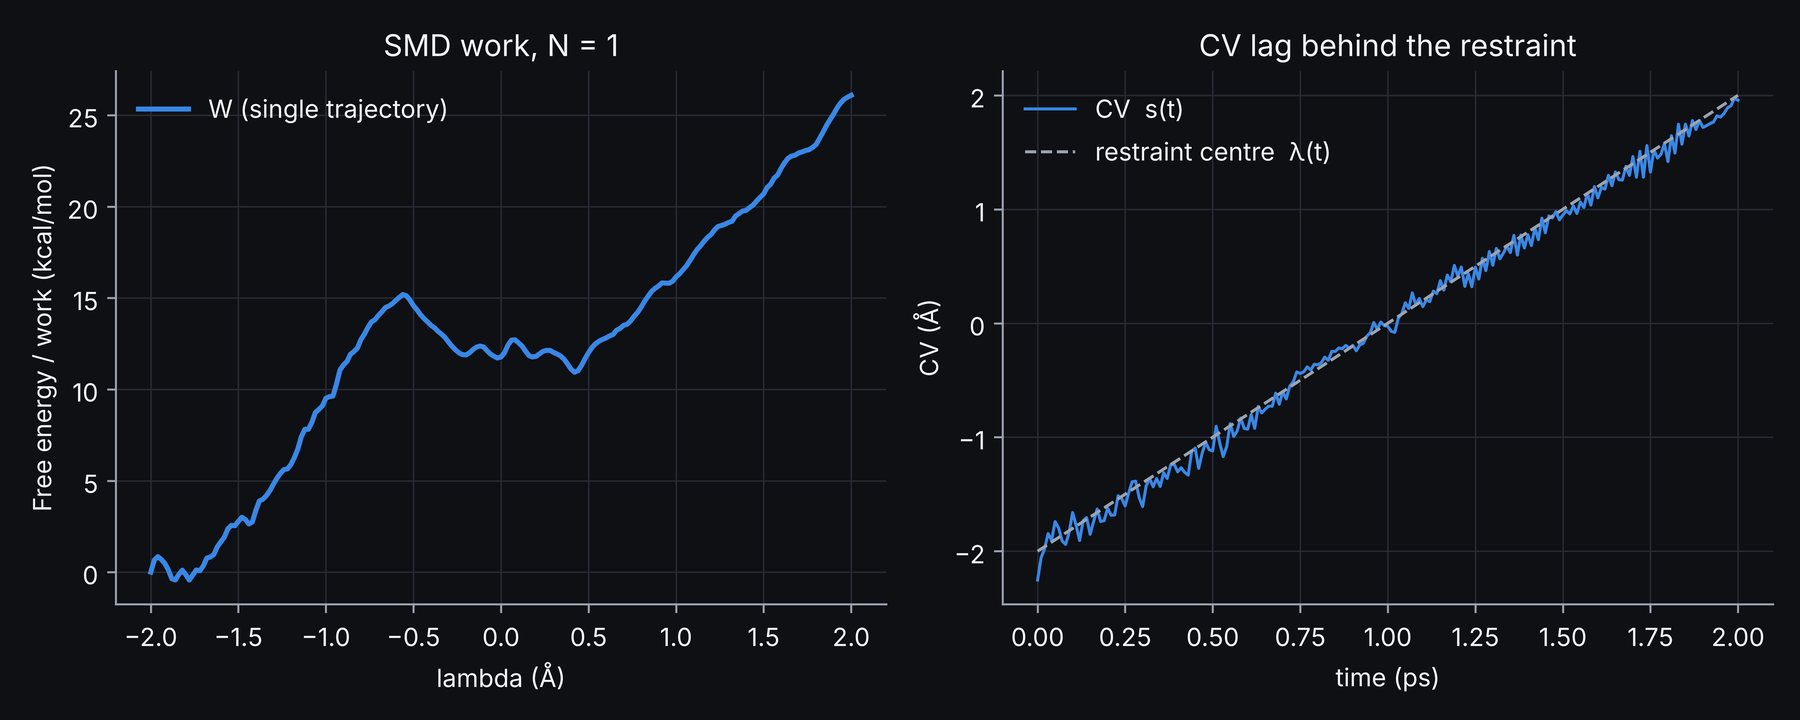
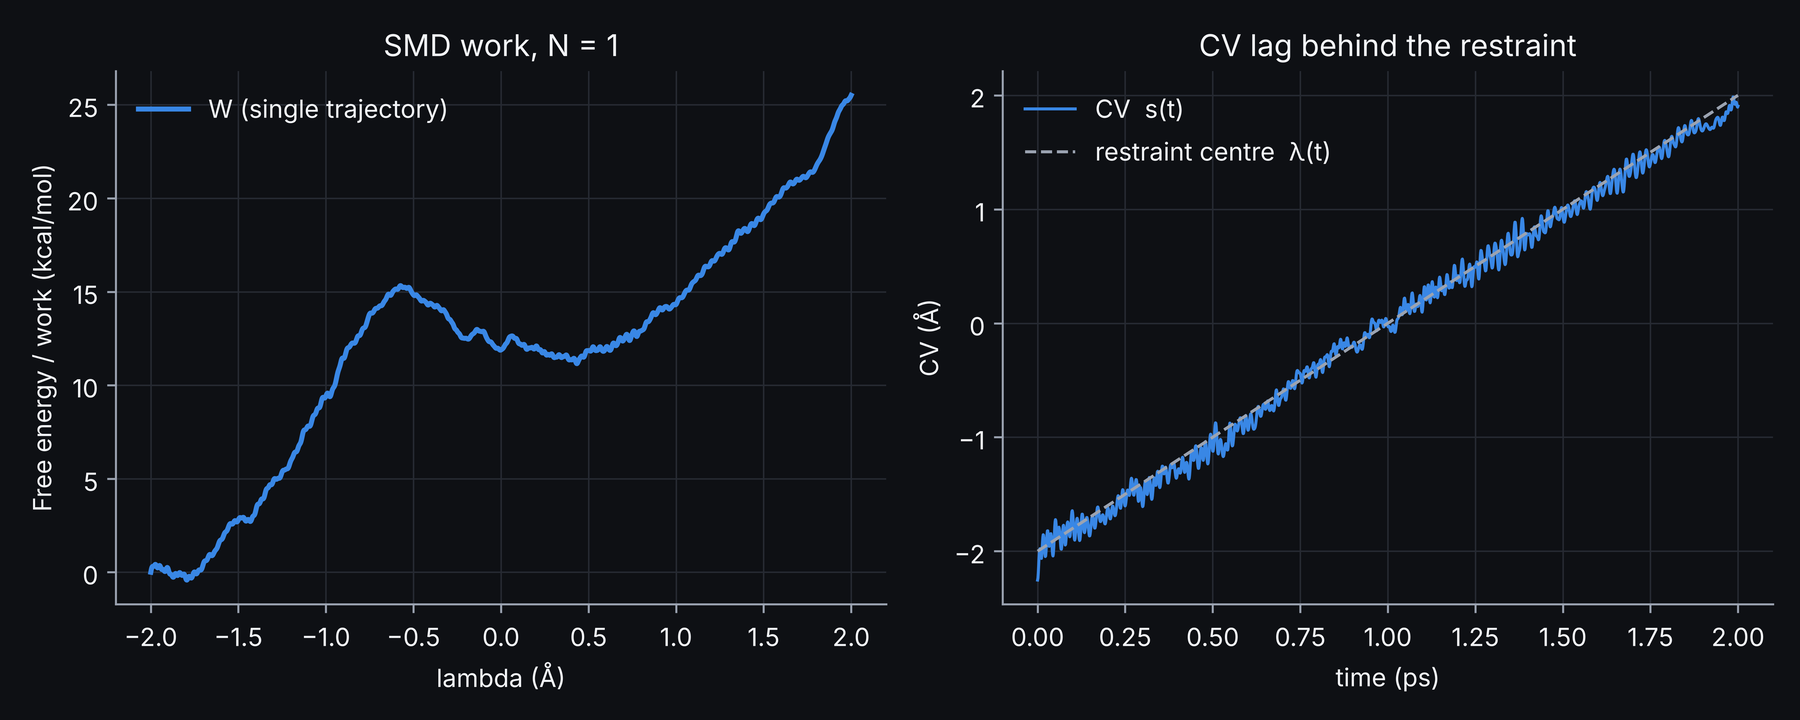
Add files via upload

diff --git a/enzyme_qmmm_prep_VIII.md b/enzyme_qmmm_prep_VIII.md
@@ -79,7 +79,7 @@ QMMM_MD_EQ-1.restart(.bin) + .wfn  ->  qmmm_md_smd.inp (moving restraint on the 
         &COLVAR
           COMMON_ITERATION_LEVELS 3
           &EACH
-            MD 10
+            MD 1
           &END EACH
         &END COLVAR
       &END PRINT
@@ -109,9 +109,9 @@ QMMM_MD_EQ-1.restart(.bin) + .wfn  ->  qmmm_md_smd.inp (moving restraint on the 
 
 - <p align="justify">&COLLECTIVE with a &RESTRAINT section turns the constraint into a harmonic restraint, U = K (CV - TARGET)<sup>2</sup> (CP2K does not use the factor 1/2), with K = 100 kcal mol<sup>-1</sup> &Aring;<sup>-2</sup>. TARGET starts at -2.0 &Aring; and grows by 0.002 &Aring; per fs (2 &Aring;/ps) until TARGET_LIMIT (+2.0 &Aring;), which takes the 2000 steps of 1 fs of the run. INTERMOLECULAR TRUE is needed because the atoms of the CV belong to different molecules (the protein and the oligosaccharide).</p>
 
-- <p align="justify">TARGET should be close to the value of the CV at the start of the run, otherwise the first part of the pull is spent bringing the CV to the restraint. Here the CV starts at -2.25 &Aring;, 0.25 &Aring; below TARGET, and reaches the target within the first 20 fs. If you change the system or the equilibration, measure the CV at the end of the NVT run (Section VII) and set TARGET and STEPS accordingly.</p>
+- <p align="justify">TARGET should be close to the value of the CV at the start of the run, otherwise the first part of the pull is spent bringing the CV to the restraint. Here the CV starts at -2.25 &Aring;, 0.25 &Aring; below TARGET, and reaches the target within the first 10 fs. If you change the system or the equilibration, measure the CV at the end of the NVT run (Section VII) and set TARGET and STEPS accordingly.</p>
 
-- <p align="justify">The &FREE_ENERGY section with DO_HILLS FALSE adds no bias: it is used only to print the CV every 10 MD steps to QMMM_MD_SMD-COLVAR.metadynLog (column 1 is the time in fs, column 2 the CV in bohr).</p>
+- <p align="justify">The &FREE_ENERGY section with DO_HILLS FALSE adds no bias: it is used only to print the CV at every MD step to QMMM_MD_SMD-COLVAR.metadynLog (column 1 is the time in fs, column 2 the CV in bohr).</p>
 
 - <p align="justify">The run continues the NVT simulation: positions, velocities (from the .bin file) and the thermostat are read from the restart files of Section VII, and the wavefunction from QMMM_MD_EQ-RESTART.wfn. RESTART_COUNTERS FALSE starts the step counter and the time at 0, which is what TARGET_GROWTH refers to.</p>
 
@@ -141,13 +141,13 @@ source cp2k_funcs
 cp2k_colvar QMMM_MD_SMD-COLVAR.metadynLog | sed -n '1,3p;$p'
 #   time[fs] CV[angstrom]
        0.000     -2.25313
-      10.000     -2.05654
-    2000.000      1.95699
+       1.000     -2.23607
+    2000.000      1.90491
 </pre>
 
 <br/>
 
-<p align="justify">After the first 50 fs the CV stays on average 0.07 &Aring; from the moving target: the restraint is in control throughout the pull. The temperature of the system stays at 299.8 &plusmn; 0.8 K.</p>
+<p align="justify">After the first 50 fs the CV stays on average 0.06 &Aring; from the moving target: the restraint is in control throughout the pull. The temperature of the system stays at 299.9 &plusmn; 0.8 K.</p>
 
 <br/>
 
@@ -173,10 +173,10 @@ vmd -e vmd_cp2k-repr.tcl -args amylase_ee.prmtop QMMM_MD_SMD-pos-1.dcd \
 | Label | Distance | Start of the pull | End of the pull |
 | :--- | :--- | ---: | ---: |
 | 7699:7700 | O4(500)-C1(501), glycosidic bond | 1.48 &Aring; | 4.74 &Aring; |
-| 3607:7699 | HE2(Glu232)-O4(500) | 3.73 &Aring; | 2.78 &Aring; |
-| 3026:7700 | OD1(Asp196)-C1(501), nucleophilic attack | 3.13 &Aring; | 1.53 &Aring; |
-| 3607:7783 | HE2(Glu232)-O(WAT511) | 1.68 &Aring; | 0.98 &Aring; |
-| 7785:7699 | H2(WAT511)-O4(500) | 2.07 &Aring; | 0.99 &Aring; |
+| 3607:7699 | HE2(Glu232)-O4(500) | 3.73 &Aring; | 2.84 &Aring; |
+| 3026:7700 | OD1(Asp196)-C1(501), nucleophilic attack | 3.13 &Aring; | 1.51 &Aring; |
+| 3607:7783 | HE2(Glu232)-O(WAT511) | 1.68 &Aring; | 1.06 &Aring; |
+| 7785:7699 | H2(WAT511)-O4(500) | 2.07 &Aring; | 1.00 &Aring; |
 
 <p align="center"><i>Start: QMMM_MD_EQ-1.restart.bin; end: QMMM_MD_SMD-1.restart.bin.</i></p>
 
@@ -184,11 +184,11 @@ vmd -e vmd_cp2k-repr.tcl -args amylase_ee.prmtop QMMM_MD_SMD-pos-1.dcd \
 
 <p align="justify">At the end of the pull the glycosylation step is complete, but not exactly as the CV describes it:</p>
 
-- <p align="justify">the glycosidic bond is broken, and Asp196 OD1 is bonded to C1 (1.53 &Aring;): the covalent glycosyl-enzyme intermediate has formed, although the nucleophile is not in the CV. C1-O5 of the -1 sugar is 1.34 &Aring;, shorter than at the start (1.39 &Aring;);</p>
+- <p align="justify">the glycosidic bond is broken, and Asp196 OD1 is bonded to C1 (1.51 &Aring;): the covalent glycosyl-enzyme intermediate has formed, although the nucleophile is not in the CV. C1-O5 of the -1 sugar is 1.34 &Aring;, shorter than at the start (1.39 &Aring;);</p>
 
-- <p align="justify">O4 is protonated, but not by HE2 of Glu232. At the start of the pull the water of the QM region already bridges the two (Glu232 HE2...O<sub>W</sub> 1.68 &Aring;, H2<sub>W</sub>...O4 2.07 &Aring;); at the end HE2 belongs to the water (0.98 &Aring;, Glu232 OE2-HE2 1.85 &Aring;) and one of the original water protons belongs to O4 (0.99 &Aring;). The proton went from Glu232 to O4 through WAT511, a Grotthuss-like relay.</p>
+- <p align="justify">O4 is protonated, but not by HE2 of Glu232. At the start of the pull the water of the QM region already bridges the two (Glu232 HE2...O<sub>W</sub> 1.68 &Aring;, H2<sub>W</sub>...O4 2.07 &Aring;); at the end HE2 belongs to the water (1.06 &Aring;, Glu232 OE2-HE2 1.77 &Aring;) and one of the original water protons belongs to O4 (1.00 &Aring;). The proton went from Glu232 to O4 through WAT511, a Grotthuss-like relay.</p>
 
-<p align="justify">Play the trajectory to see when each event happens (the bond lengths only tell us where the run ended). The relay has a consequence for the CV: it follows HE2, which never reaches O4 (2.78 &Aring; at the end), so once the proton has moved through the water the second term of the CV no longer describes the proton transfer, and the CV grows by stretching O4 away from C1 (4.74 &Aring;). This is a common pitfall of CVs defined on specific hydrogen atoms; a CV that does not depend on which proton arrives (e.g. a coordination number of O4 by hydrogens) avoids it. Watch also the conformation of the -1 sugar ring and the hydrogen bonds of Asp299 with its O2 and O3 hydroxyls.</p>
+<p align="justify">Play the trajectory to see when each event happens (the bond lengths only tell us where the run ended). The relay has a consequence for the CV: it follows HE2, which never reaches O4 (2.84 &Aring; at the end), so once the proton has moved through the water the second term of the CV no longer describes the proton transfer, and the CV grows by stretching O4 away from C1 (4.74 &Aring;). This is a common pitfall of CVs defined on specific hydrogen atoms; a CV that does not depend on which proton arrives (e.g. a coordination number of O4 by hydrogens) avoids it. Watch also the conformation of the -1 sugar ring and the hydrogen bonds of Asp299 with its O2 and O3 hydroxyls.</p>
 
 <br/>
 
@@ -211,7 +211,7 @@ python3 smd_jarzynski.py -l QMMM_MD_SMD-COLVAR.metadynLog -o qmmm_md_smd.out
 # TARGET = -3.779452  TARGET_GROWTH = 9.142058e-05  TARGET_LIMIT = 3.779452265771286  K = 4.462539e-02  T = 300.0 K
 # K = 100.00 kcal/mol/Å^2 as used by CP2K (U = K (s-lambda)^2); equivalent k = 200.00 in the U = k/2 (s-lambda)^2 convention
 # pulling speed = 2.000 Å/ps
-# QMMM_MD_SMD-COLVAR.metadynLog: 201 points, final W = 26.09 kcal/mol
+# QMMM_MD_SMD-COLVAR.metadynLog: 2001 points, final W = 25.51 kcal/mol
 # NOTE: single trajectory -> F(lambda) = W(lambda), an upper bound that includes dissipation
 # wrote smd_jarzynski.dat
 # wrote smd_jarzynski.png (600 dpi)
@@ -227,7 +227,7 @@ python3 smd_jarzynski.py -l QMMM_MD_SMD-COLVAR.metadynLog -o qmmm_md_smd.out
 
 - <p align="justify">The parameters are read in CP2K internal units (bohr and hartree); the script prints them back in &Aring; and kcal/mol as a check. The profile is plotted against &lambda;, the restraint center, which is the proper variable of the Jarzynski equality (--xaxis cv plots it against the CV, averaged over the replicas, instead). smd_jarzynski.dat has the time, &lambda;, the CV, the work, both estimators and their errors at every point of the COLVAR file; the figure is shown on screen and saved at 600 dpi (--no-show only saves it, --prefix changes the file names, --theme light draws it on a white background instead of the dark one).</p>
 
-- <p align="justify">With a single trajectory both estimators reduce to the work itself, an upper bound of the free energy that includes the dissipation of a fast pull. In the example, the work rises to 15.2 kcal/mol at &lambda; = -0.56 &Aring; (t = 0.72 ps), drops to 10.9 kcal/mol at &lambda; = +0.42 &Aring; (t = 1.21 ps) and then rises again to 26.1 kcal/mol at the end, as the restraint keeps stretching O4 away from C1 after the relay (see above). The first maximum should not be read as the barrier of glycosylation: the work of a single fast pull includes dissipation, so it overestimates the free energy at every &lambda;.</p>
+- <p align="justify">With a single trajectory both estimators reduce to the work itself, an upper bound of the free energy that includes the dissipation of a fast pull. In the example, the work rises to 15.3 kcal/mol at &lambda; = -0.57 &Aring; (t = 0.71 ps), drops to 11.2 kcal/mol at &lambda; = +0.43 &Aring; (t = 1.22 ps) and then rises again to 25.5 kcal/mol at the end, as the restraint keeps stretching O4 away from C1 after the relay (see above). The first maximum should not be read as the barrier of glycosylation: the work of a single fast pull includes dissipation, so it overestimates the free energy at every &lambda;.</p>
 
 - <p align="justify">For an actual free energy estimate, run several pulls with the same protocol from different starting points (e.g. frames of a longer NVT run, or new velocities), give all their metadynLog files to the script, and check that the Jarzynski and cumulant estimates agree within their bootstrap errors; slower pulls need fewer replicas. Umbrella sampling with windows started from frames of the steered MD is the usual alternative.</p>
 
